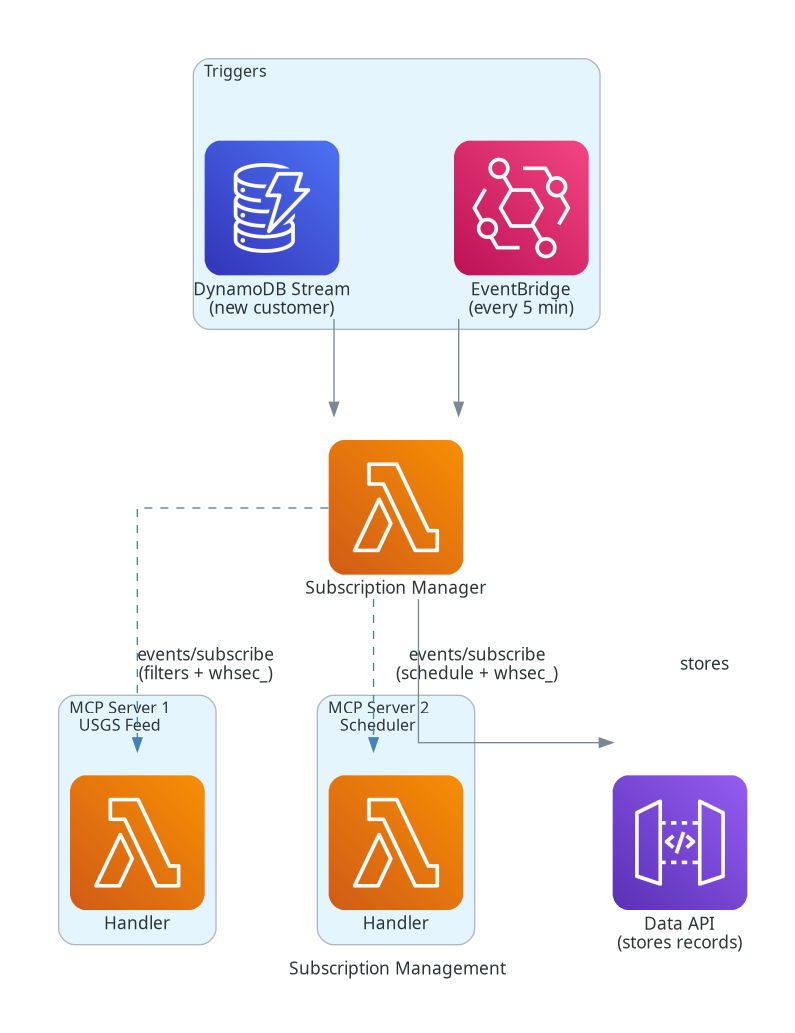
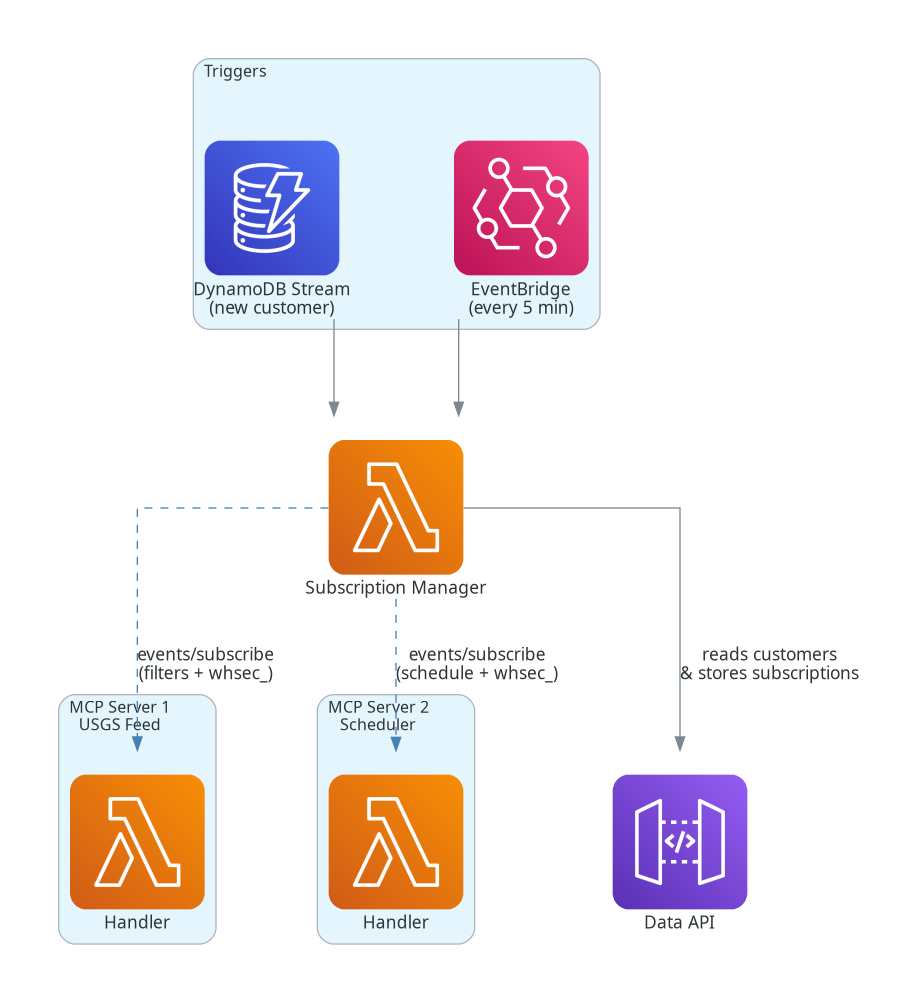
Add webapp diagram, show EventBridge in overview, add lock/reports to event delivery
Four focused architecture diagrams:
1. Overview - servers with EventBridge schedules, client pipeline
2. Event delivery - webhook to agent with lock, Data API, reports
3. Subscription management - reads customers and stores subscriptions
4. Webapp - CloudFront, Cognito auth, Data API backends

diff --git a/generate-diagrams.py b/generate-diagrams.py
@@ -4,12 +4,11 @@ from diagrams.aws.compute import Lambda
 from diagrams.aws.database import Dynamodb
 from diagrams.aws.integration import SimpleQueueServiceSqs as SQS
 from diagrams.aws.integration import Eventbridge
-from diagrams.aws.network import APIGateway
+from diagrams.aws.network import APIGateway, CloudFront
 from diagrams.aws.storage import SimpleStorageServiceS3 as S3
 from diagrams.aws.ml import Bedrock
 from diagrams.aws.security import Cognito
 from diagrams.aws.general import General
-from diagrams.custom import Custom
 import os
 
 os.chdir(os.path.dirname(os.path.abspath(__file__)))
@@ -24,22 +23,22 @@ graph_attr = {
     "ranksep": "1.0",
 }
 
-# Diagram 1: High-level overview
+# Diagram 1: High-level overview (simplified - no subscription manager)
 with Diagram(
-    "MCP Events - High-Level Overview",
+    "",
     filename=f"{outdir}/1-overview",
     show=False,
     direction="LR",
     graph_attr=graph_attr,
     outformat="png",
 ):
-    usgs = General("USGS API")
-
     with Cluster("MCP Server 1\nUSGS Earthquake Feed"):
+        usgs = General("USGS API")
         s1_lambda = Lambda("Handler")
         s1_ddb = Dynamodb("Subscriptions")
 
     with Cluster("MCP Server 2\nMessage Scheduler"):
+        s2_eb = Eventbridge("EventBridge\n(every 1 min)")
         s2_lambda = Lambda("Handler")
         s2_ddb = Dynamodb("Subscriptions")
 
@@ -49,47 +48,41 @@ with Diagram(
         agent = Lambda("Strands Agent")
         bedrock = Bedrock("LLM")
         sessions = S3("Sessions")
-        sub_mgr = Lambda("Subscription\nManager")
 
-    usgs >> Edge(style="dashed", label="polls") >> s1_lambda
+    usgs >> Edge(style="dashed") >> s1_lambda
     s1_lambda >> s1_ddb
+    s2_eb >> s2_lambda >> s2_ddb
 
     s1_lambda >> Edge(color="darkorange", style="bold") >> receiver
     s2_lambda >> Edge(color="darkorange", style="bold") >> receiver
-    s2_lambda >> s2_ddb
-
-    sub_mgr >> Edge(style="dashed", color="steelblue") >> s1_lambda
-    sub_mgr >> Edge(style="dashed", color="steelblue") >> s2_lambda
 
     receiver >> sqs >> agent
     agent >> bedrock
     agent >> sessions
 
 
-# Diagram 2: Event delivery flow
+# Diagram 2: Event delivery flow (with lock, reports, Data API)
 with Diagram(
-    "Event Delivery Flow",
+    "",
     filename=f"{outdir}/2-event-delivery",
     show=False,
     direction="LR",
-    graph_attr={**graph_attr, "ranksep": "1.2"},
+    graph_attr={**graph_attr, "ranksep": "1.0"},
     outformat="png",
 ):
-    eb = Eventbridge("EventBridge\n(schedule)")
-
     with Cluster("MCP Server"):
         server_lambda = Lambda("Handler")
-        server_ddb = Dynamodb("Subscriptions")
 
     with Cluster("MCP Client/Host"):
         recv = APIGateway("Webhook\nReceiver")
         sqs = SQS("Queue")
         agent = Lambda("Strands Agent")
+        lock = Dynamodb("Lock")
         bedrock = Bedrock("LLM")
-        s3 = S3("Session\n(S3)")
+        sessions = S3("Sessions")
+        reports = S3("Reports")
+        data_api = APIGateway("Data API")
 
-    eb >> Edge(label="triggers") >> server_lambda
-    server_lambda >> server_ddb
     server_lambda >> Edge(
         color="darkorange",
         style="bold",
@@ -97,13 +90,16 @@ with Diagram(
     ) >> recv
     recv >> Edge(label="validates\nHMAC") >> sqs
     sqs >> Edge(label="wakes") >> agent
+    agent >> lock
     agent >> Edge(label="invokes") >> bedrock
-    agent >> Edge(label="persists") >> s3
+    agent >> sessions
+    agent >> data_api
+    data_api >> reports
 
 
-# Diagram 3: Subscription management
+# Diagram 3: Subscription management (reads from Data API too)
 with Diagram(
-    "Subscription Management",
+    "",
     filename=f"{outdir}/3-subscriptions",
     show=False,
     direction="TB",
@@ -122,7 +118,7 @@ with Diagram(
     with Cluster("MCP Server 2\nScheduler"):
         s2 = Lambda("Handler")
 
-    data_api = APIGateway("Data API\n(stores records)")
+    data_api = APIGateway("Data API")
 
     stream >> sub_mgr
     eb >> sub_mgr
@@ -137,4 +133,33 @@ with Diagram(
         label="events/subscribe\n(schedule + whsec_)",
     ) >> s2
 
-    sub_mgr >> Edge(label="stores") >> data_api
+    sub_mgr >> Edge(label="reads customers\n& stores subscriptions") >> data_api
+
+
+# Diagram 4: Webapp
+with Diagram(
+    "",
+    filename=f"{outdir}/4-webapp",
+    show=False,
+    direction="LR",
+    graph_attr=graph_attr,
+    outformat="png",
+):
+    with Cluster("Frontend"):
+        cf = CloudFront("CloudFront")
+        spa = S3("SvelteKit SPA")
+
+    cognito = Cognito("Cognito\n(auth)")
+
+    with Cluster("Backend"):
+        data_api = APIGateway("Data API")
+        config_db = Dynamodb("Customer\nConfig")
+        reports = S3("Reports")
+        sessions = S3("Sessions\n(read-only)")
+
+    cf >> spa
+    cf >> Edge(label="Cognito JWT") >> data_api
+    cognito >> Edge(style="dashed") >> cf
+    data_api >> config_db
+    data_api >> reports
+    data_api >> sessions

diff --git a/README.md b/README.md
@@ -1,54 +1,54 @@
 # MCP Events Serverless Agent — Earthquake Monitoring
 
-A sample that demonstrates the experimental **MCP Events extension** (webhook
-delivery mode) by using it to wake a **serverless** [Strands](https://strandsagents.com)
-agent. The agent has zero running compute until an event arrives: two MCP
-servers deliver events over signed webhooks, which wake a Lambda-hosted Strands
-agent just long enough to process the event and persist its state.
+A sample that demonstrates the experimental [MCP Triggers & Events extension](https://github.com/modelcontextprotocol/experimental-ext-triggers-events/) webhook
+delivery mode, by using MCP events to wake a serverless [Strands](https://strandsagents.com)
+agent.
 
-The demo use case is multi-customer earthquake monitoring. Each customer
+This sample app does multi-customer earthquake monitoring. Each user
 configures their own filters (minimum magnitude, geographic region, max depth)
 and briefing schedule. The agent accumulates earthquake observations in its
-conversation history and periodically synthesizes them into a briefing report.
-A SvelteKit webapp lets customers self-service their configuration and read
-their reports and conversation history.
+conversation history and periodically synthesizes them into a briefing report
+for the user.
 
 > This is sample/demo code intended to illustrate the MCP Events extension and a
 > wake/sleep serverless agent pattern. It is not production-hardened.
 
 ## Architecture
 
-The system has three components, grouped by their MCP role:
+The system consists of:
 
-- **MCP Servers** — declare event types, manage webhook subscriptions, deliver signed events
+- **MCP Servers** — declare event types, manage webhook subscriptions, deliver signed events to webhook targets
 - **MCP Client/Host application** — subscribes to events, receives and processes them, manages customer state
 - **External systems** — USGS API, Amazon Bedrock
 
-<img src="diagrams/1-overview.png" alt="High-level overview" width="700">
+At a high-level, there are three major components:
 
-The two MCP servers (left) deliver events to the client application (right) via
+1. **MCP Server 1 — USGS Earthquake Feed** polls the USGS GeoJSON feed, detects
+  new earthquakes with cursor-based deduplication, and delivers each one as an
+  `earthquake.detected` event to every subscription whose filter matches.
+1. **MCP Server 2 — Message Scheduler** fires a `briefing.trigger` event per
+  customer on that customer's cron schedule (or on demand).
+1. The **Strands agent** wakes on each event. Its conversation history accumulates the
+  earthquake events for the customer: each earthquake becomes a user message plus an LLM analysis
+  response. Each briefing trigger event asks the LLM to synthesize the whole
+  conversation into a report via a `save_report` tool.
+
+The system is entirely serverless: The agent has zero running compute until an event arrives:
+webhook events wake the Lambda-hosted Strands agent just long enough to process the event and persist its state.
+Likewise, the MCP servers both MCP servers run as Lambda functions, triggered on EventBridge schedules.
+They have no long-running processes — they wake, check for work, deliver webhooks, and
+exit.
+
+<img src="diagrams/1-overview.png" alt="High-level overview" width="900">
+
+The two MCP servers (top and bottom) deliver events to the client application (middle) via
 signed webhooks (solid orange arrows). The client's Subscription Manager
 maintains those subscriptions by periodically calling `events/subscribe` on each
 server (dashed blue arrows). Inside the client, events flow through a Webhook
 Receiver → SQS queue → Strands Agent pipeline, with the agent invoking Bedrock
 for LLM analysis and persisting conversation state to S3.
 
-- **MCP Server 1 — USGS Earthquake Feed** polls the USGS GeoJSON feed, detects
-  new earthquakes with cursor-based deduplication, and delivers each one as an
-  `earthquake.detected` event to every subscription whose filter matches.
-- **MCP Server 2 — Message Scheduler** fires a `briefing.trigger` event per
-  customer on that customer's cron schedule (or on demand).
-- The **Strands agent** wakes on each event. Its **conversation history is
-  the accumulator**: each earthquake becomes a user message plus an LLM analysis
-  response; each briefing trigger asks the LLM to synthesize the whole
-  conversation into a report via a `save_report` tool.
-
 ### Event delivery
-
-Both MCP servers run as Lambda functions on EventBridge schedules. They have
-no long-running processes — they wake, check for work, deliver webhooks, and
-exit. The agent likewise has zero running compute until a webhook arrives.
-
 
 <img src="diagrams/2-event-delivery.png" alt="Event delivery flow">
 Each delivery is a signed HTTP POST (Standard Webhooks HMAC-SHA256) with an
@@ -64,6 +64,15 @@ for the briefing trigger, and a client-generated `whsec_` signing secret for
 each subscription.
 
 <img src="diagrams/3-subscriptions.png" alt="Subscription management" width="500">
+
+### Customer webapp
+
+Customers self-service their configuration and view reports through a SvelteKit
+SPA served via CloudFront. The webapp authenticates with Cognito and calls the
+Data API with a JWT to manage config, read reports, and view the agent's
+conversation history.
+
+<img src="diagrams/4-webapp.png" alt="Customer webapp" width="500">
 
 ## Getting started
 
